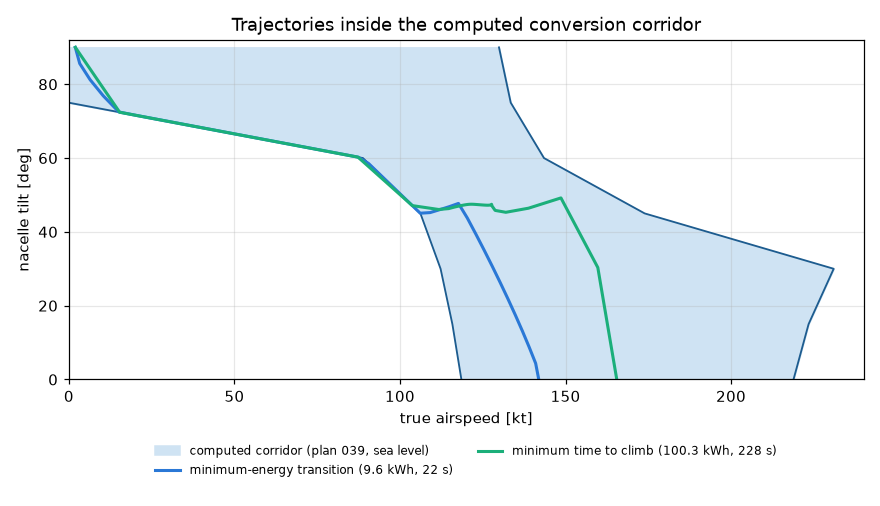
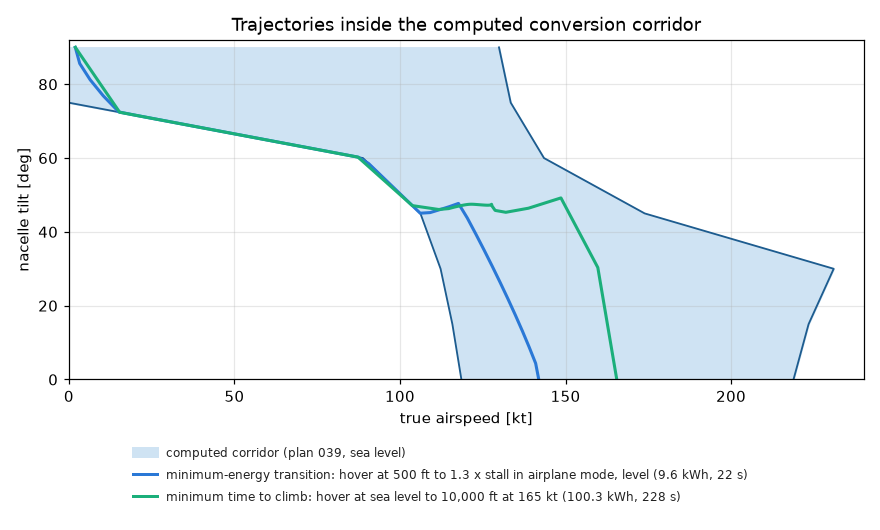
docs: trajectory figure legend names each leg's start and end
The legend on the existing figure is redrawn (no re-solve); the example's
labels now use the same wording, from the problem definitions.

Claude-Session: https://claude.ai/code/session_016d4JiKz2MYckTpCV5G5V65

diff --git a/examples/halo_trajectory_computed_corridor.py b/examples/halo_trajectory_computed_corridor.py
@@ -59,10 +59,12 @@ def plot(case, results, path):
     ax.plot(high, tilts, color="#1d5c8f", lw=1.2)
     colors = {"minimum-energy transition": "#2a78d6", "prescribed transition": "#eb6834",
               "minimum time to climb": "#1baf7a"}
+    # Each leg's end points, from the problem definitions in examples/trajectory_optimization.py.
+    legs = {"minimum-energy transition": "hover at 500 ft to 1.3 x stall in airplane mode, level",
+            "minimum time to climb": "hover at sea level to 10,000 ft at 165 kt"}
     for result in results:
-        altitudes_ft = [round(result.altitude_m[i] / u.foot, -2) for i in (0, -1)]
-        label = (f"{result.label}, {altitudes_ft[0]:,.0f} to {altitudes_ft[1]:,.0f} ft "
-                 f"({result.energy_bus_J[-1] / 3.6e6:.1f} kWh, {result.duration_s:.0f} s)")
+        leg = f": {legs[result.label]}" if result.label in legs else ""
+        label = f"{result.label}{leg} ({result.energy_bus_J[-1] / 3.6e6:.1f} kWh, {result.duration_s:.0f} s)"
         ax.plot(result.velocity_m_s / u.knot, result.tilt_deg, color=colors.get(result.label, "#333333"), lw=2,
                 label=label)
     ax.set(xlabel="true airspeed [kt]", ylabel="nacelle tilt [deg]", xlim=(0, 240), ylim=(0, 92),
